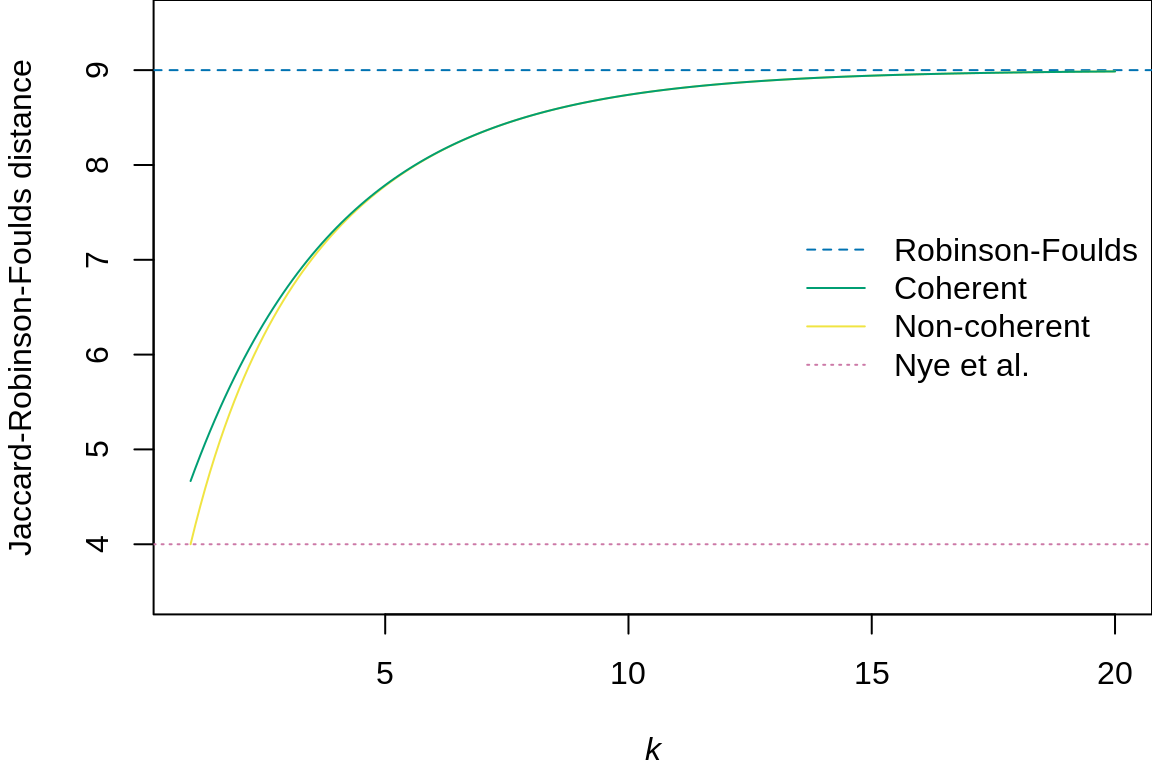
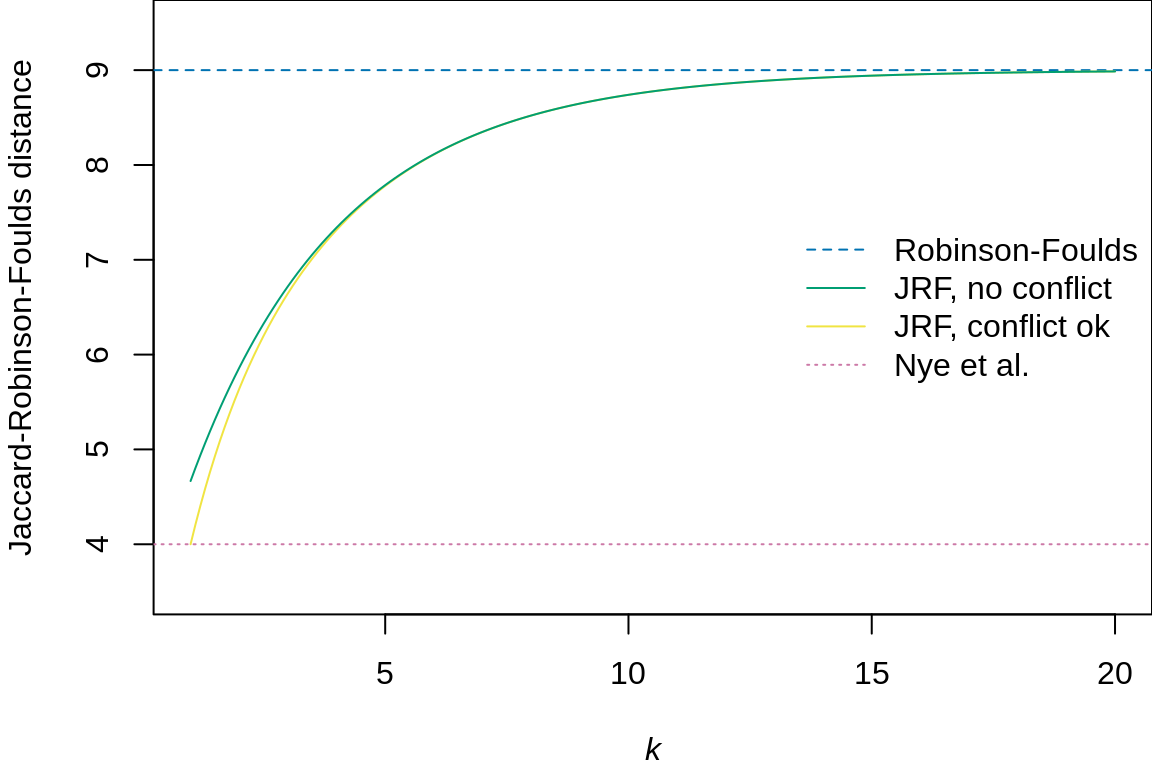
Built site for TreeDist: 0.0.0.9000@2c232d0

Changed region(s): [[0.7812, 0.3438, 0.9688, 0.4375]]

diff --git a/articles/Generalized-RF.html b/articles/Generalized-RF.html
@@ -117,7 +117,7 @@
       <h1 data-toc-skip>Generalized Robinson-Foulds distances</h1>
                         <h4 class="author">Martin R. Smith</h4>
             
-            <h4 class="date">2020-05-29</h4>
+            <h4 class="date">2020-06-01</h4>
       
       <small class="dont-index">Source: <a href="https://github.com/ms609/TreeDist/blob/master/vignettes/Generalized-RF.Rmd"><code>vignettes/Generalized-RF.Rmd</code></a></small>
       <div class="hidden name"><code>Generalized-RF.Rmd</code></div>
@@ -137,12 +137,13 @@
 <p><img src="Generalized-RF_files/figure-html/unnamed-chunk-1-1.png" width="576" style="display: block; margin: auto;"></p>
 <div class="sourceCode" id="cb2"><html><body><pre class="r"><span class="fu"><a href="../reference/TreeDistance.html">SharedPhylogeneticInfo</a></span>(<span class="no">tree1</span>, <span class="no">tree2</span>)</pre></body></html></div>
 <pre><code>## [1] 12.32188</code></pre>
-<div id="the-problem-with-coherent-matchings" class="section level3">
+<div id="the-problem-with-prohibiting-conflicting-pairings" class="section level3">
 <h3 class="hasAnchor">
-<a href="#the-problem-with-coherent-matchings" class="anchor"></a>The problem with coherent matchings</h3>
+<a href="#the-problem-with-prohibiting-conflicting-pairings" class="anchor"></a>The problem with prohibiting conflicting pairings</h3>
+<!--TODO expand to expound arboreal matchings-->
 <p>Shared phylogenetic information prohibits the pairing of contradictory splits: that is, it assigns zero similarity to splits that cannot both occur on a single tree.<br>
 This leads to problematic behaviour in certain cases: for example, when the position of two distant taxa is swapped, similarities within a tree can be obscured.<br>
-The two trees below are identical but for the position of <em>A</em> and <em>J</em>, yet receive zero similarity under coherent metrics.</p>
+The two trees below are identical but for the position of <em>A</em> and <em>J</em>, yet receive zero similarity if conflicting splits cannot be paired.</p>
 <div class="sourceCode" id="cb4"><html><body><pre class="r"><span class="fu"><a href="../reference/VisualizeMatching.html">VisualizeMatching</a></span>(<span class="no">SharedPhylogeneticInfo</span>, <span class="kw">matchZeros</span> <span class="kw">=</span> <span class="fl">FALSE</span>, <span class="no">AtoJ</span>, <span class="no">AotJ</span>,
                   <span class="kw">Plot</span><span class="kw">=</span><span class="no">TreeDistPlot</span>, <span class="kw">leaveRoom</span> <span class="kw">=</span> <span class="fl">FALSE</span>, <span class="kw">prune</span><span class="kw">=</span><span class="fu"><a href="https://rdrr.io/r/base/c.html">c</a></span>(<span class="fl">5</span>, <span class="fl">18</span>))</pre></body></html></div>
 <p><img src="Generalized-RF_files/figure-html/unnamed-chunk-2-1.png" width="576" style="display: block; margin: auto;"></p>
@@ -151,7 +152,8 @@ The two trees below are identical but for the position of <em>A</em> and <em>J</
 <div id="mutual-clustering-information" class="section level2">
 <h2 class="hasAnchor">
 <a href="#mutual-clustering-information" class="anchor"></a>Mutual clustering information</h2>
-<p>Scoring each pair of splits according to their mutual clustering information <span class="citation">(Smith, 2020)</span> (see <a href="information.html">separate vignette</a>) results in a non-coherent information-based tree distance metric that, as desired, assigns a non-zero similarity to the case that received zero similarity under an coherent matching:</p>
+<!--TODO REWRITE; coherent matching -> prohibit conflicting pairings -->
+<p>Scoring each pair of splits according to their mutual clustering information <span class="citation">(Smith, 2020)</span> (see <a href="information.html">separate vignette</a>) results in a information-based tree distance metric that, as desired, assigns a non-zero similarity to the case that received zero similarity under an coherent matching:</p>
 <div class="sourceCode" id="cb5"><html><body><pre class="r"><span class="fu"><a href="../reference/VisualizeMatching.html">VisualizeMatching</a></span>(<span class="no">MutualClusteringInfo</span>, <span class="no">AtoJ</span>, <span class="no">AotJ</span>, <span class="kw">matchZeros</span> <span class="kw">=</span> <span class="fl">FALSE</span>,
                   <span class="kw">Plot</span><span class="kw">=</span><span class="no">TreeDistPlot</span>, <span class="kw">leaveRoom</span> <span class="kw">=</span> <span class="fl">FALSE</span>, <span class="kw">prune</span><span class="kw">=</span><span class="fu"><a href="https://rdrr.io/r/base/c.html">c</a></span>(<span class="fl">5</span>, <span class="fl">18</span>))</pre></body></html></div>
 <p><img src="Generalized-RF_files/figure-html/unnamed-chunk-3-1.png" width="576" style="display: block; margin: auto;"></p>
@@ -185,11 +187,12 @@ ABCDE IJ|FGH</code></pre>
 <div id="jaccard-robinson-foulds-metric" class="section level3">
 <h3 class="hasAnchor">
 <a href="#jaccard-robinson-foulds-metric" class="anchor"></a>Jaccard-Robinson-Foulds metric</h3>
+<!--TODO REWRITE -- I'd misunderstood what an arboreal matching was -->
 <p>Böcker <em>et al</em>. <span class="citation">(2013)</span> propose expressly prohibiting contradictory pairings, i.e. pairs of splits that could never occur in the same tree. Such a ‘coherent’ matching would preclude the pairing of <code>ABCFGHI|DE</code> with <code>ABCDFGH|EI</code>:</p>
 <div class="sourceCode" id="cb14"><html><body><pre class="r"><span class="fu"><a href="../reference/JaccardRobinsonFoulds.html">JaccardRobinsonFoulds</a></span>(<span class="no">tree1</span>, <span class="no">tree2</span>, <span class="kw">similarity</span> <span class="kw">=</span> <span class="fl">TRUE</span>)</pre></body></html></div>
 <pre><code>## [1] 6.333333</code></pre>
 <div class="sourceCode" id="cb16"><html><body><pre class="r"><span class="fu"><a href="../reference/VisualizeMatching.html">VisualizeMatching</a></span>(<span class="no">JaccardRobinsonFoulds</span>, <span class="no">tree1</span>, <span class="no">tree2</span>,
-                  <span class="kw">Plot</span><span class="kw">=</span><span class="no">TreeDistPlot</span>, <span class="kw">leaveRoom</span><span class="kw">=</span><span class="fl">FALSE</span>, <span class="kw">matchZeros</span> <span class="kw">=</span> <span class="fl">FALSE</span>)</pre></body></html></div>
+                  <span class="kw">Plot</span> <span class="kw">=</span> <span class="no">TreeDistPlot</span>, <span class="kw">leaveRoom</span> <span class="kw">=</span> <span class="fl">FALSE</span>, <span class="kw">matchZeros</span> <span class="kw">=</span> <span class="fl">FALSE</span>)</pre></body></html></div>
 <p><img src="Generalized-RF_files/figure-html/unnamed-chunk-6-1.png" width="576" style="display: block; margin: auto;"></p>
 <p>Böcker <em>et al</em>. <span class="citation">(2013)</span> also suggest raising the split similarity score defined above to an arbitrary exponent. The similarity score is also doubled. By this means, the metric can be made to converge to the Robinson-Foulds metric as the exponent grows towards infinity.</p>
 <p><img src="Generalized-RF_files/figure-html/unnamed-chunk-7-1.png" width="576" style="display: block; margin: auto;"></p>

diff --git a/reference/JaccardRobinsonFoulds.html b/reference/JaccardRobinsonFoulds.html
@@ -182,7 +182,7 @@ Generalized Robinson-Foulds metric." />
   <span class='no'>tree1</span>,
   <span class='kw'>tree2</span> <span class='kw'>=</span> <span class='no'>tree1</span>,
   <span class='kw'>k</span> <span class='kw'>=</span> <span class='fl'>1L</span>,
-  <span class='kw'>coherent</span> <span class='kw'>=</span> <span class='fl'>TRUE</span>,
+  <span class='kw'>allowConflict</span> <span class='kw'>=</span> <span class='fl'>FALSE</span>,
   <span class='kw'>similarity</span> <span class='kw'>=</span> <span class='fl'>FALSE</span>,
   <span class='kw'>normalize</span> <span class='kw'>=</span> <span class='fl'>FALSE</span>,
   <span class='kw'>reportMatching</span> <span class='kw'>=</span> <span class='fl'>FALSE</span>
@@ -193,7 +193,7 @@ Generalized Robinson-Foulds metric." />
   <span class='no'>splits2</span>,
   <span class='kw'>nTip</span> <span class='kw'>=</span> <span class='fu'><a href='https://rdrr.io/r/base/attr.html'>attr</a></span>(<span class='no'>splits1</span>, <span class='st'>"nTip"</span>),
   <span class='kw'>k</span> <span class='kw'>=</span> <span class='fl'>1L</span>,
-  <span class='kw'>coherent</span> <span class='kw'>=</span> <span class='fl'>TRUE</span>,
+  <span class='kw'>allowConflict</span> <span class='kw'>=</span> <span class='fl'>FALSE</span>,
   <span class='kw'>reportMatching</span> <span class='kw'>=</span> <span class='fl'>FALSE</span>
 )</pre>
 
@@ -218,10 +218,10 @@ The Nye <em>et al</em>. metric uses <code>k = 1</code>.
 As k → ∞, the metric converges to the Robinson-Foulds metric.</p></td>
     </tr>
     <tr>
-      <th>coherent</th>
-      <td><p>Logical specifying whether to enforce coherent matches, by
-assigning zero similarity to contradictory split pairings s on an <em>ad hoc</em>
-basis.</p></td>
+      <th>allowConflict</th>
+      <td><p>Logical specifying whether to allow conflicting splits
+to be paired. If <code>FALSE</code>, such pairings will be allocated a similarity
+score of zero.</p></td>
     </tr>
     <tr>
       <th>similarity</th>
@@ -278,8 +278,8 @@ consistent with both of them, normalized against the Jaccard index, and
 raised to an arbitrary exponent.
 A more detailed explanation is provided in the
 <a href='https://ms609.github.io/TreeDist/articles/Generalized-RF.html#jaccard-robinson-foulds-metric'>vignettes</a>.</p>
-<p>By default, coherent matchings are enforced.</p>
-<p>Note that the settings <code>k = 1, coherent = FALSE, similarity = TRUE</code>
+<p>By default, conflicting splits will not be paired.</p>
+<p>Note that the settings <code>k = 1, allowConflict = TRUE, similarity = TRUE</code>
 give the similarity metric of Nye <em>et al</em>. (2006); a slightly faster
 implementation of this metric is available as <code><a href='NyeTreeSimilarity.html'>NyeTreeSimilarity</a></code>.</p>
 <p>The examples section below details how to visualize matchings with
@@ -329,9 +329,9 @@ doi: <a href='https://doi.org/10.1007/978-3-642-40453-5_13'>10.1007/978-3-642-40
     <pre class="examples"><div class='input'><span class='fu'><a href='https://rdrr.io/r/base/Random.html'>set.seed</a></span>(<span class='fl'>2</span>)
 <span class='no'>tree1</span> <span class='kw'>&lt;-</span> <span class='kw pkg'>ape</span><span class='kw ns'>::</span><span class='fu'><a href='https://rdrr.io/pkg/ape/man/rtree.html'>rtree</a></span>(<span class='fl'>10</span>)
 <span class='no'>tree2</span> <span class='kw'>&lt;-</span> <span class='kw pkg'>ape</span><span class='kw ns'>::</span><span class='fu'><a href='https://rdrr.io/pkg/ape/man/rtree.html'>rtree</a></span>(<span class='fl'>10</span>)
-<span class='fu'>JaccardRobinsonFoulds</span>(<span class='no'>tree1</span>, <span class='no'>tree2</span>, <span class='kw'>k</span> <span class='kw'>=</span> <span class='fl'>2</span>, <span class='kw'>coherent</span> <span class='kw'>=</span> <span class='fl'>FALSE</span>)</div><div class='output co'>#&gt; [1] 11.40222</div><div class='input'><span class='fu'>JaccardRobinsonFoulds</span>(<span class='no'>tree1</span>, <span class='no'>tree2</span>, <span class='kw'>k</span> <span class='kw'>=</span> <span class='fl'>2</span>, <span class='kw'>coherent</span> <span class='kw'>=</span> <span class='fl'>TRUE</span>)</div><div class='output co'>#&gt; [1] 12.0105</div><div class='input'>
+<span class='fu'>JaccardRobinsonFoulds</span>(<span class='no'>tree1</span>, <span class='no'>tree2</span>, <span class='kw'>k</span> <span class='kw'>=</span> <span class='fl'>2</span>, <span class='kw'>allowConflict</span> <span class='kw'>=</span> <span class='fl'>FALSE</span>)</div><div class='output co'>#&gt; [1] 12.0105</div><div class='input'><span class='fu'>JaccardRobinsonFoulds</span>(<span class='no'>tree1</span>, <span class='no'>tree2</span>, <span class='kw'>k</span> <span class='kw'>=</span> <span class='fl'>2</span>, <span class='kw'>allowConflict</span> <span class='kw'>=</span> <span class='fl'>TRUE</span>)</div><div class='output co'>#&gt; [1] 11.40222</div><div class='input'>
 <span class='no'>JRF2</span> <span class='kw'>&lt;-</span> <span class='kw'>function</span> (<span class='no'>tree1</span>, <span class='no'>tree2</span>, <span class='no'>...</span>)
-  <span class='fu'>JaccardRobinsonFoulds</span>(<span class='no'>tree1</span>, <span class='no'>tree2</span>, <span class='kw'>k</span> <span class='kw'>=</span> <span class='fl'>2</span>, <span class='kw'>coherent</span> <span class='kw'>=</span>  <span class='fl'>TRUE</span>, <span class='no'>...</span>)
+  <span class='fu'>JaccardRobinsonFoulds</span>(<span class='no'>tree1</span>, <span class='no'>tree2</span>, <span class='kw'>k</span> <span class='kw'>=</span> <span class='fl'>2</span>, <span class='kw'>allowConflict</span> <span class='kw'>=</span> <span class='fl'>FALSE</span>, <span class='no'>...</span>)
 
 <span class='fu'><a href='VisualizeMatching.html'>VisualizeMatching</a></span>(<span class='no'>JRF2</span>, <span class='no'>tree1</span>, <span class='no'>tree2</span>, <span class='kw'>matchZeros</span> <span class='kw'>=</span> <span class='fl'>FALSE</span>)</div><div class='img'><img src='JaccardRobinsonFoulds-1.png' alt='' width='700' height='433' /></div><div class='input'>
 </div></pre>

diff --git a/reference/TreeDistance.html b/reference/TreeDistance.html
@@ -418,8 +418,9 @@ doi: <a href='https://doi.org/10.1145/1553374.1553511'>10.1145/1553374.1553511</
 <span class='fu'>DifferentPhylogeneticInfo</span>(<span class='no'>tree1</span>, <span class='no'>tree2</span>) <span class='co'># Distance measure</span></div><div class='output co'>#&gt; [1] 14.39934</div><div class='input'><span class='fu'>DifferentPhylogeneticInfo</span>(<span class='no'>tree2</span>, <span class='no'>tree1</span>) <span class='co'># The metric is symmetric</span></div><div class='output co'>#&gt; [1] 14.39934</div><div class='input'>
 <span class='co'># Are they more similar than two trees of this shape would be by chance?</span>
 <span class='fu'>ExpectedVariation</span>(<span class='no'>tree1</span>, <span class='no'>tree2</span>, <span class='kw'>sample</span><span class='kw'>=</span><span class='fl'>12</span>)[<span class='st'>'DifferentPhylogeneticInfo'</span>, <span class='st'>'Estimate'</span>]</div><div class='output co'>#&gt; [1] 33.31608</div><div class='input'>
-<span class='co'># Every split in tree1 is contradicted by every split in tree3</span>
-<span class='co'># Non-coherent matches contain clustering, but not phylogenetic, information</span>
+<span class='co'># Every split in tree1 conflicts with every split in tree3</span>
+<span class='co'># Pairs of conflicting splits contain clustering, but not phylogenetic, </span>
+<span class='co'># information</span>
 <span class='fu'>SharedPhylogeneticInfo</span>(<span class='no'>tree1</span>, <span class='no'>tree3</span>) <span class='co'># = 0</span></div><div class='output co'>#&gt; [1] 0</div><div class='input'><span class='fu'>MutualClusteringInfo</span>(<span class='no'>tree1</span>, <span class='no'>tree3</span>) <span class='co'># &gt; 0</span></div><div class='output co'>#&gt; [1] 0.6539805</div><div class='input'>
 <span class='co'># Converting trees to Splits objects can speed up multiple comparisons</span>
 <span class='no'>splits1</span> <span class='kw'>&lt;-</span> <span class='kw pkg'>TreeTools</span><span class='kw ns'>::</span><span class='fu'><a href='https://ms609.github.io/TreeTools/reference/as.Splits.html'>as.Splits</a></span>(<span class='no'>tree1</span>)

diff --git a/articles/Using-TreeDist.html b/articles/Using-TreeDist.html
@@ -117,7 +117,7 @@
       <h1 data-toc-skip>Calculate tree similarity with TreeDist</h1>
                         <h4 class="author">Martin R. Smith</h4>
             
-            <h4 class="date">2020-05-29</h4>
+            <h4 class="date">2020-06-01</h4>
       
       <small class="dont-index">Source: <a href="https://github.com/ms609/TreeDist/blob/master/vignettes/Using-TreeDist.Rmd"><code>vignettes/Using-TreeDist.Rmd</code></a></small>
       <div class="hidden name"><code>Using-TreeDist.Rmd</code></div>
@@ -163,11 +163,11 @@
 
 <span class="fu"><a href="../reference/TreeDistance.html">TreeDistance</a></span>(<span class="no">oneTree</span>, <span class="no">twoTrees</span>)</pre></body></html></div>
 <pre><code>##       one       two 
-## 0.3720185 0.3402549</code></pre>
+## 0.2567042 0.2326416</code></pre>
 <div class="sourceCode" id="cb8"><html><body><pre class="r"><span class="fu"><a href="../reference/TreeDistance.html">TreeDistance</a></span>(<span class="no">twoTrees</span>, <span class="no">threeTrees</span>)</pre></body></html></div>
 <pre><code>##             a         b         c
-## one 0.3359894 0.2358275 0.1703333
-## two 0.2974791 0.1185968 0.1602926</code></pre>
+## one 0.3287415 0.2916348 0.2351374
+## two 0.1634244 0.2011497 0.2762558</code></pre>
 </div>
 </div>
 <div id="visualizing-a-matching" class="section level2">

diff --git a/reference/TreeDist-package.html b/reference/TreeDist-package.html
@@ -206,10 +206,11 @@ lead to different tree distance metrics, implemented in the functions below:</p>
 <li><p><a href='https://ms609.github.io/TreeDist/reference/TreeDistance.html'><code>MutualClusteringInfo</code></a>, <a href='https://ms609.github.io/TreeDist/reference/TreeDistance.html'><code>SharedPhylogeneticInfo</code></a></p><ul>
 <li><p>Smith (forthcoming) scores matchings based on the amount of information
 that one partition contains about the other.  The Mutual Phylogenetic
-Information imposes coherent matching: i.e. a pair of splits that cannot
-both exist on a single tree are assigned zero similarity.  The Mutual
-Clustering Information metric is more forgiving, and exhibits more
-desirable behaviour; it is the recommended metric for tree comparison.
+Information assigns zero similarity to splits that cannot both exist on a
+single tree.
+The Mutual Clustering Information metric is more forgiving, and thus
+exhibits more desirable behaviour; it is the recommended metric for tree
+comparison.
 (The corresponding
 <a href='https://ms609.github.io/TreeDist/reference/TreeDistance.html'><code>ClusteringInfoDistance</code></a>
 returns a tree distance.)</p></li>

diff --git a/articles/using-distances.html b/articles/using-distances.html
@@ -117,7 +117,7 @@
       <h1 data-toc-skip>Contextualizing tree distances</h1>
                         <h4 class="author"><a href="https://community.dur.ac.uk/martin.smith/">Martin R. Smith</a></h4>
             
-            <h4 class="date">2020-05-29</h4>
+            <h4 class="date">2020-06-01</h4>
       
       <small class="dont-index">Source: <a href="https://github.com/ms609/TreeDist/blob/master/vignettes/using-distances.Rmd"><code>vignettes/using-distances.Rmd</code></a></small>
       <div class="hidden name"><code>using-distances.Rmd</code></div>

diff --git a/articles/Tree-distance-metric-evaluation.html b/articles/Tree-distance-metric-evaluation.html
@@ -117,7 +117,7 @@
       <h1 data-toc-skip>Interpreting tree distance metrics</h1>
                         <h4 class="author">Martin R. Smith</h4>
             
-            <h4 class="date">2020-05-29</h4>
+            <h4 class="date">2020-06-01</h4>
       
       <small class="dont-index">Source: <a href="https://github.com/ms609/TreeDist/blob/master/vignettes/Tree-distance-metric-evaluation.Rmd"><code>vignettes/Tree-distance-metric-evaluation.Rmd</code></a></small>
       <div class="hidden name"><code>Tree-distance-metric-evaluation.Rmd</code></div>

diff --git a/reference/NyeTreeSimilarity.html b/reference/NyeTreeSimilarity.html
@@ -279,7 +279,7 @@ subtracting it from the number of splits present in both trees.
 This ensures consistency with <code>JaccardRobinsonFoulds</code>.</p>
 <p>Note that <code>NyeTreeSimilarity(tree1, tree2)</code> is equivalent to, but
 slightly faster than, <code><a href='JaccardRobinsonFoulds.html'>JaccardRobinsonFoulds</a>
-(tree1, tree2, k = 1, coherent = FALSE)</code>.</p>
+(tree1, tree2, k = 1, allowConflict = TRUE)</code>.</p>
     <h2 class="hasAnchor" id="normalization"><a class="anchor" href="#normalization"></a>Normalization</h2>
 
     

diff --git a/articles/Robinson-Foulds.html b/articles/Robinson-Foulds.html
@@ -117,7 +117,7 @@
       <h1 data-toc-skip>Extending the Robinson-Foulds metric</h1>
                         <h4 class="author">Martin R. Smith</h4>
             
-            <h4 class="date">2020-05-29</h4>
+            <h4 class="date">2020-06-01</h4>
       
       <small class="dont-index">Source: <a href="https://github.com/ms609/TreeDist/blob/master/vignettes/Robinson-Foulds.Rmd"><code>vignettes/Robinson-Foulds.Rmd</code></a></small>
       <div class="hidden name"><code>Robinson-Foulds.Rmd</code></div>

diff --git a/articles/information.html b/articles/information.html
@@ -117,7 +117,7 @@
       <h1 data-toc-skip>Comparing splits using information theory</h1>
                         <h4 class="author">Martin R. Smith</h4>
             
-            <h4 class="date">2020-05-29</h4>
+            <h4 class="date">2020-06-01</h4>
       
       <small class="dont-index">Source: <a href="https://github.com/ms609/TreeDist/blob/master/vignettes/information.Rmd"><code>vignettes/information.Rmd</code></a></small>
       <div class="hidden name"><code>information.Rmd</code></div>
